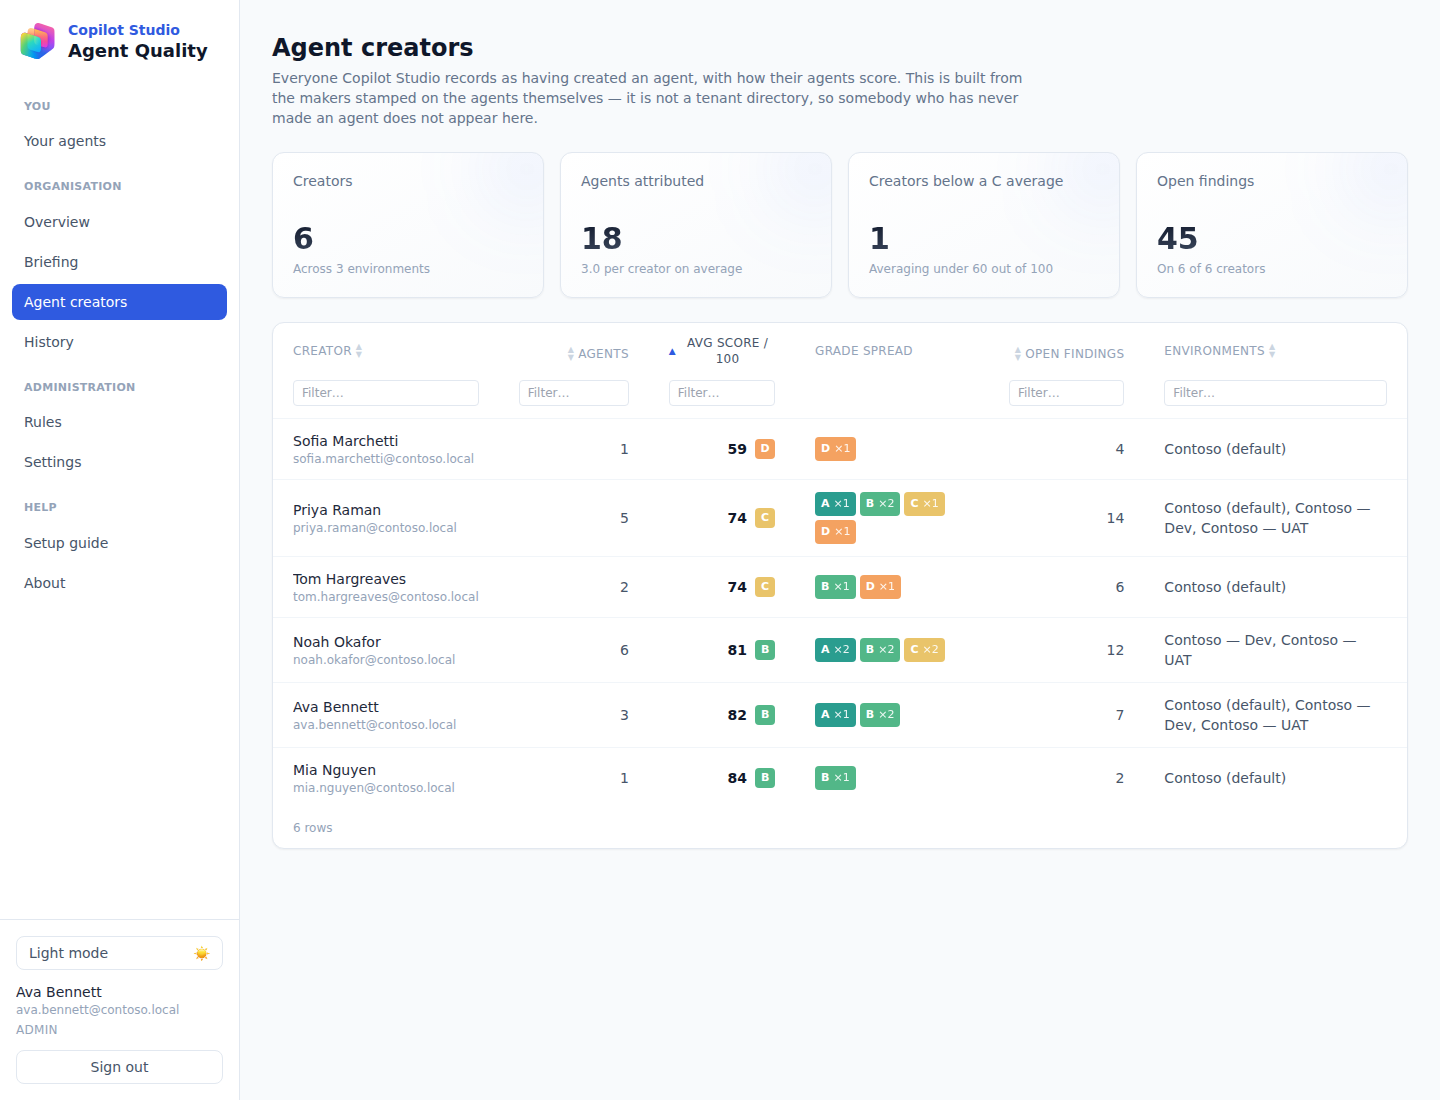
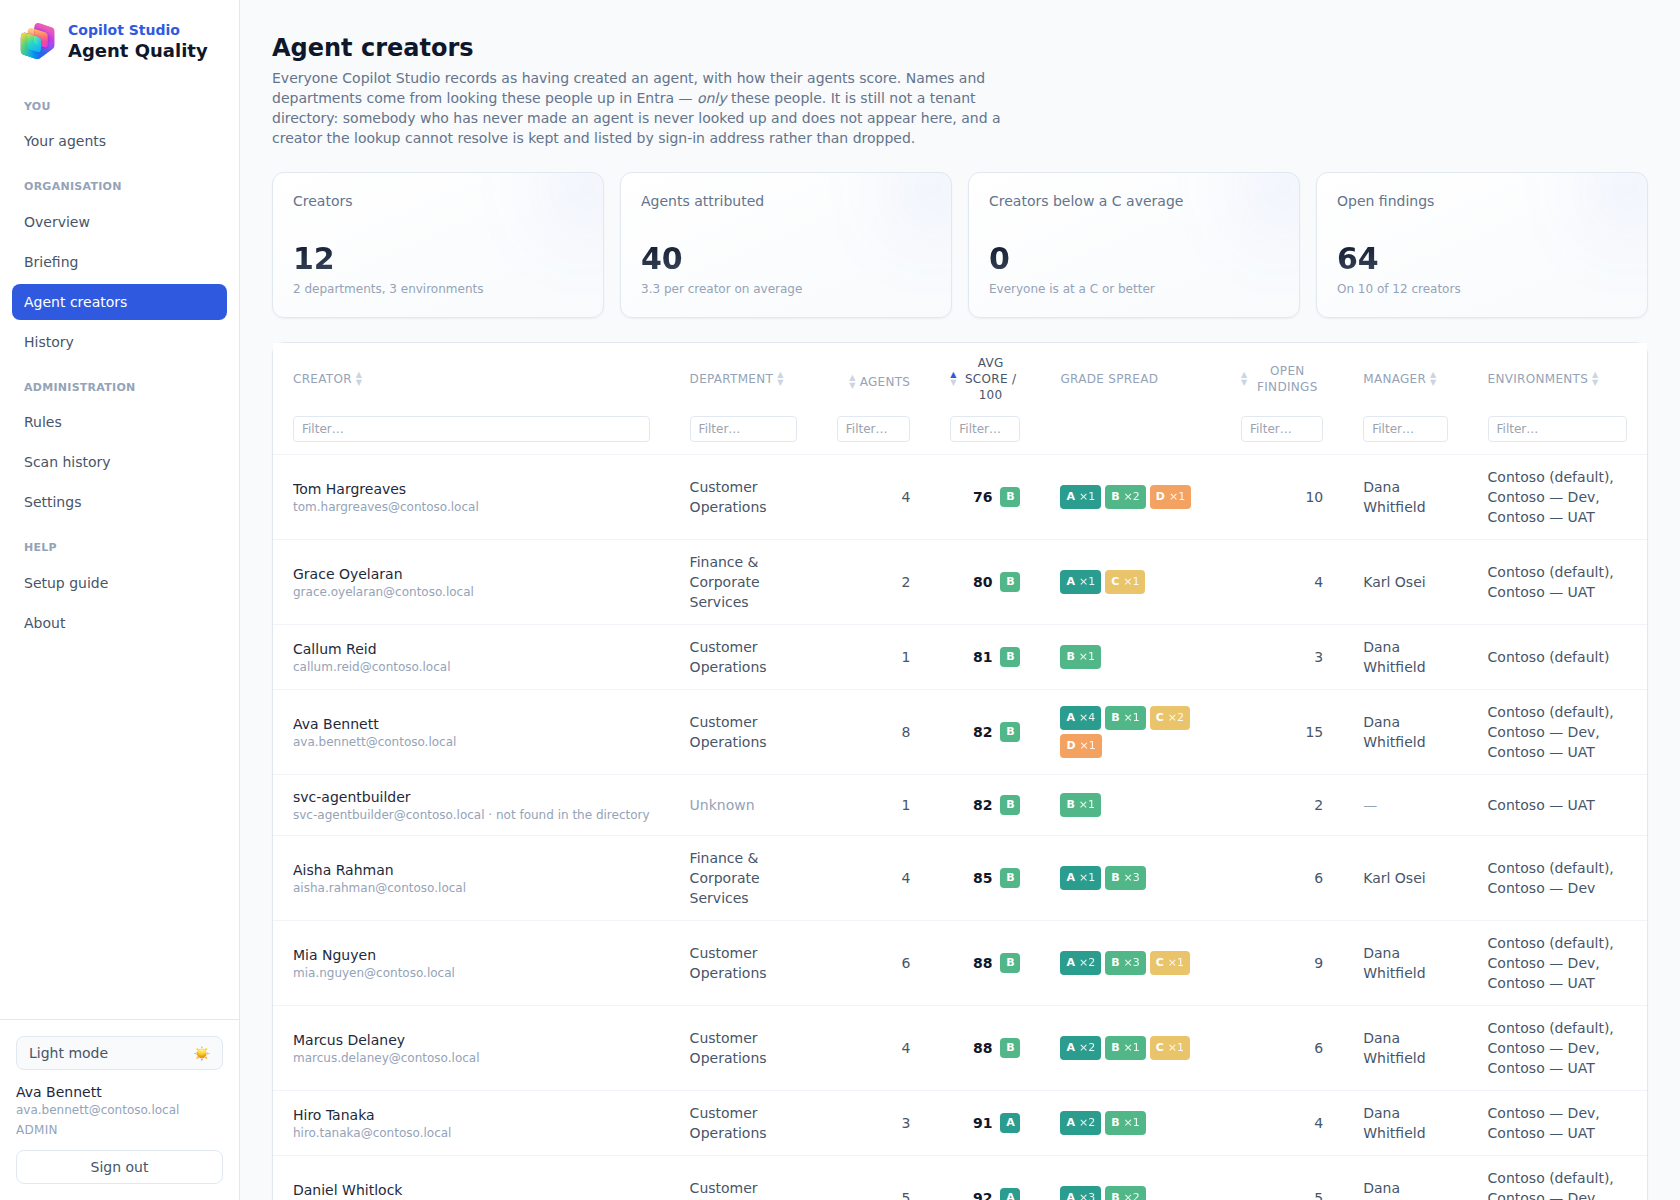
Refresh the screenshots for the pages this pass added and rebuilt
Four screens: Your agents gains the score timeline and the comparison against
other agent creators; History is rebuilt as a quality trend with its
best-to-worst band and biggest movers; Agent creators now shows real names,
departments and managers from the Entra lookup, including the unresolved
service account kept and listed by address; Scan history is new.

Captured from throwaway local stacks on HA-IC9 running the published images —
byte-identical digests to what is deployed, checked rather than assumed — with
seeded demo data and no tenant credentials configured anywhere, so no Graph
call was possible and no real tenant or deployment was touched. 1680x1200,
light and dark, per docs/screenshots/README.md.

Worth recording, because it nearly shipped the wrong pictures: the host had a
cached :latest from earlier in the day, and a plain compose up reused it rather
than pulling. Three of the four rigs came up on the previous build, which is
only visible in details like a percentile reading "38th percentile" where the
shipped code shows a band. Caught by diffing each rig's image digest against
the running production container; the shots here are from a forced re-pull.

diff --git a/README.md b/README.md
@@ -95,6 +95,8 @@ Status is a shape plus a word (● Succeeded · ◐ In progress · ○ Failed), 
 
 This is deliberately **not** the History page above. Both read the scan table; this one answers "did it run", that one answers "is quality moving".
 
+![Scan history](docs/screenshots/scan-history.png)
+
 ![History](docs/screenshots/history.png)
 
 ### Setup guide
